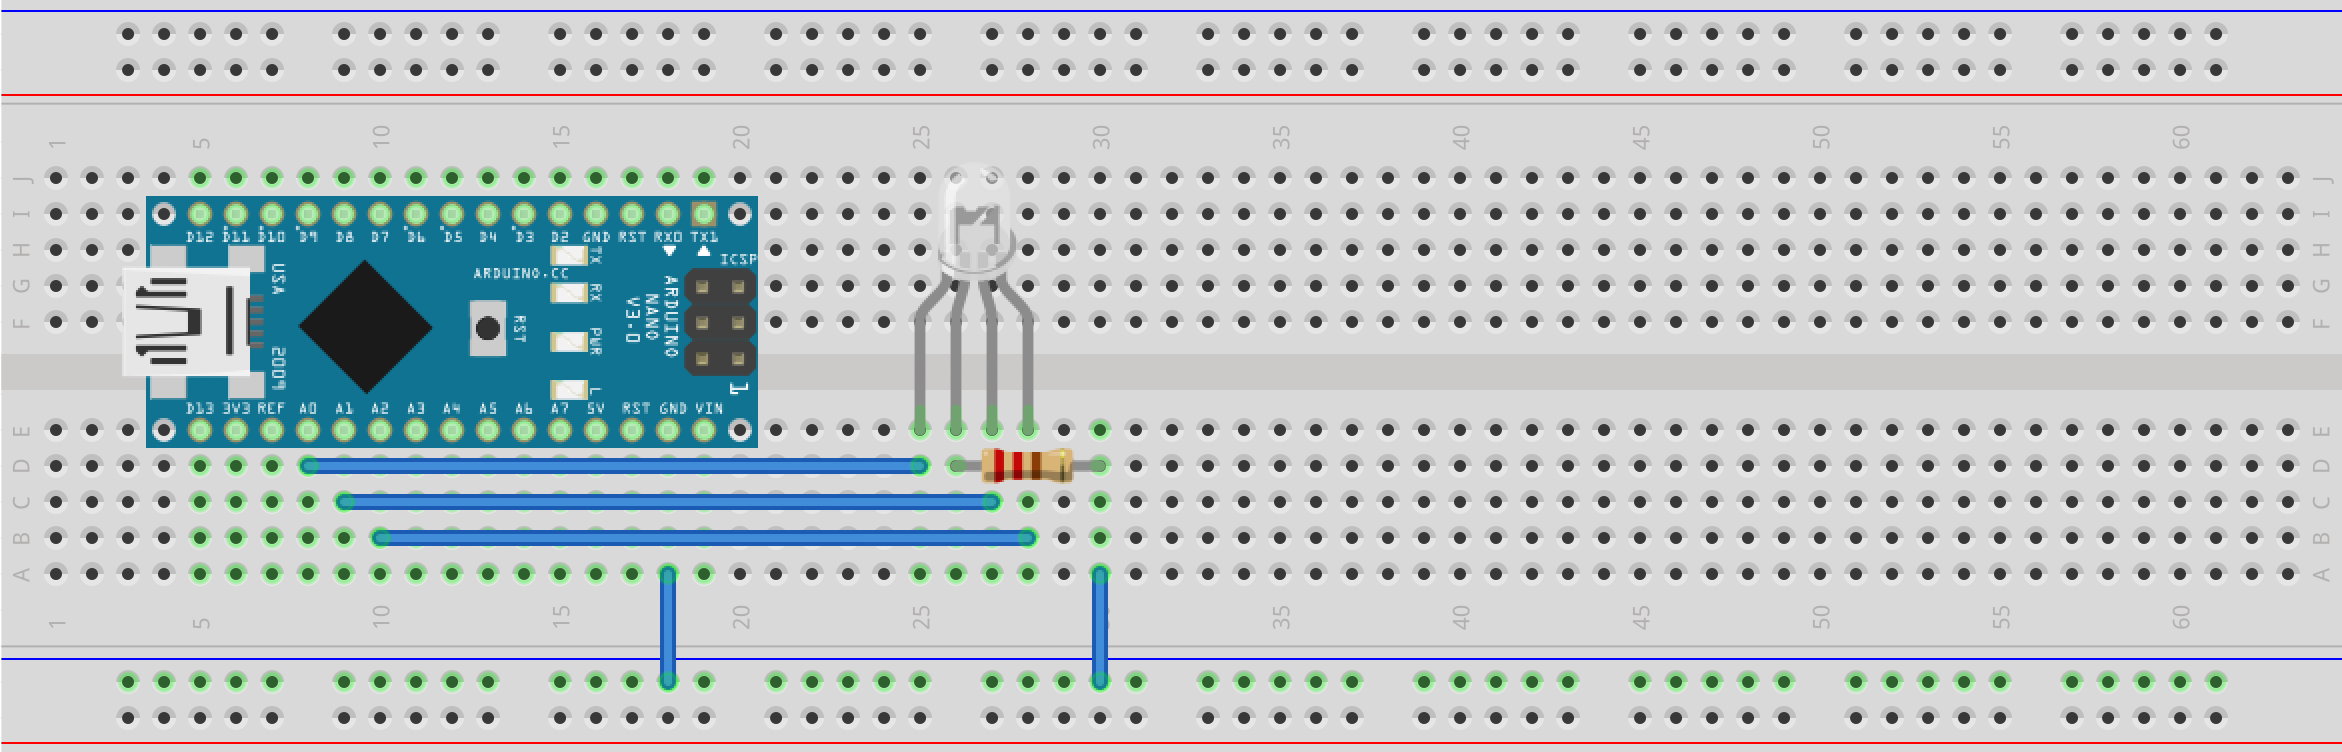
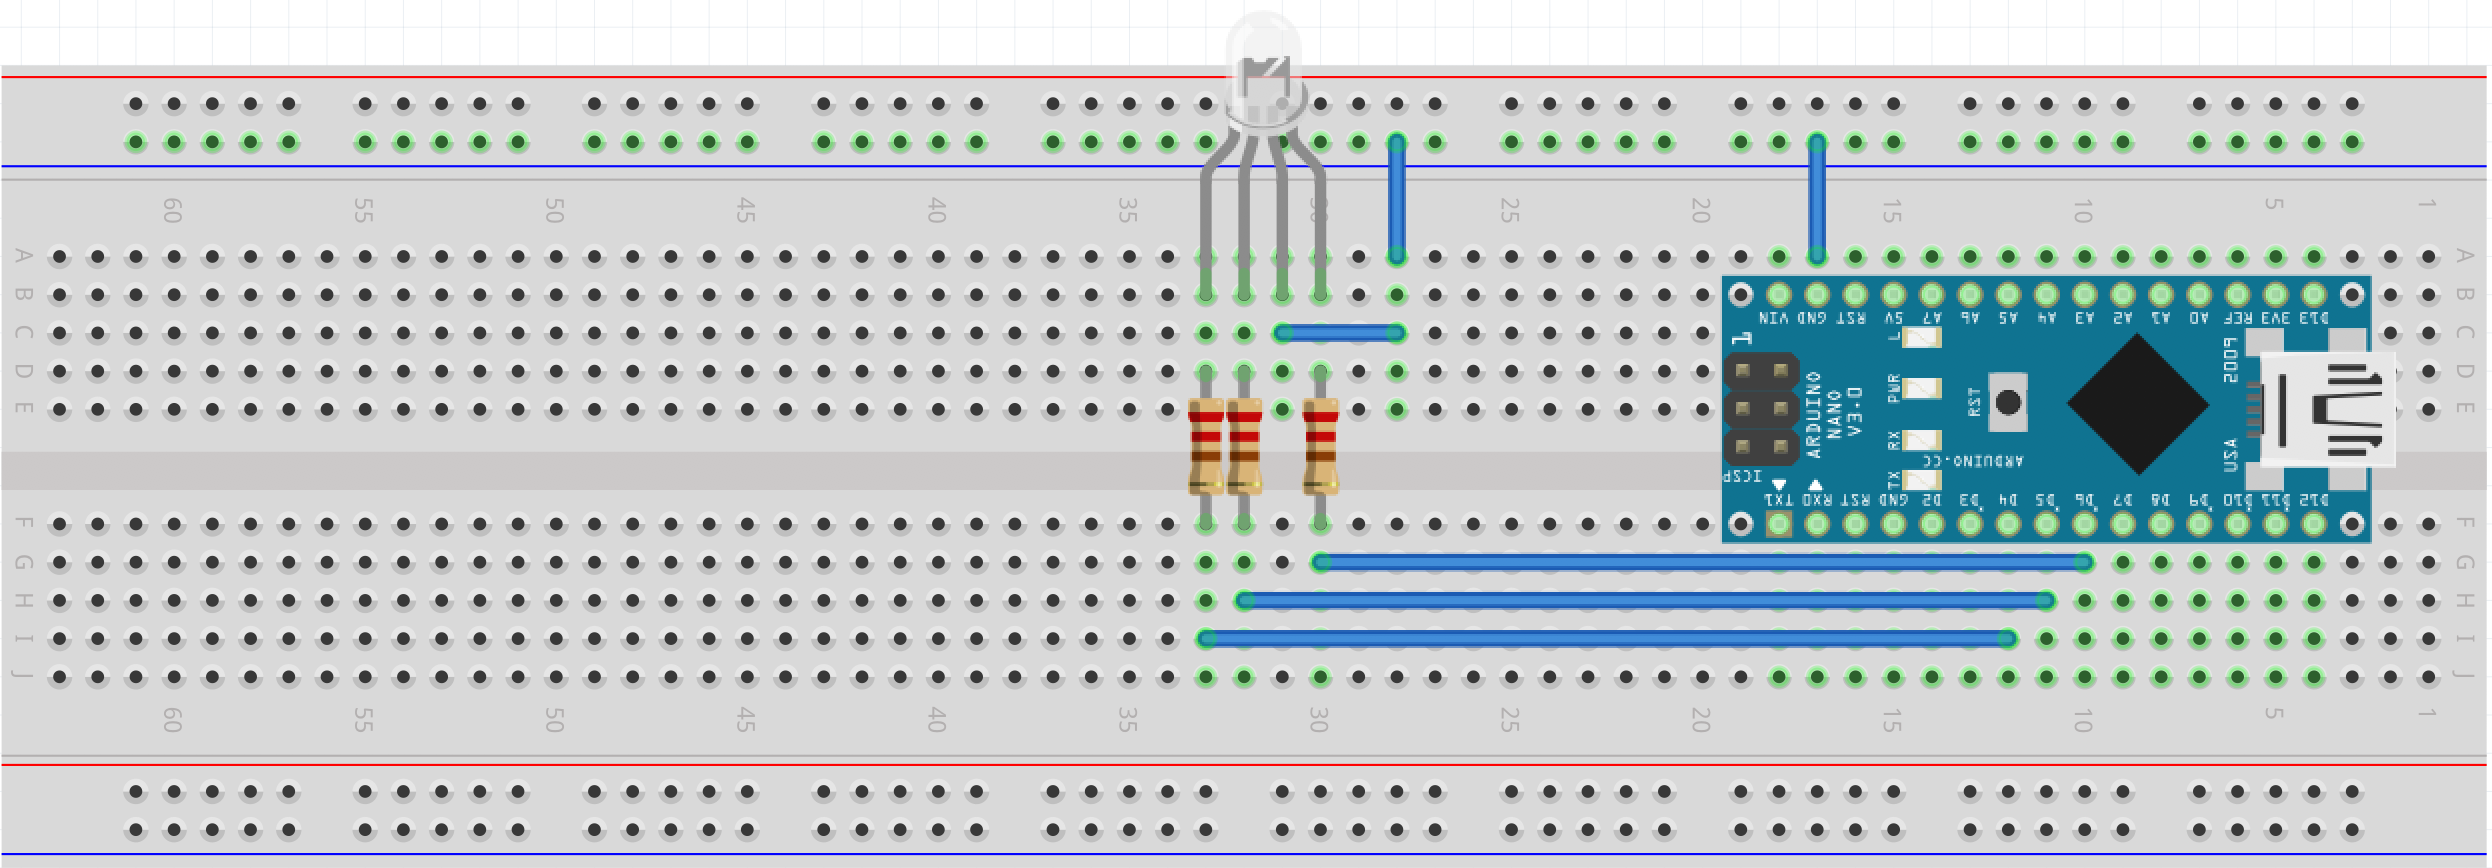
Updated connection diagram for RGB LED

diff --git a/3. Ultrasonic Range Sensing/README.md b/3. Ultrasonic Range Sensing/README.md
@@ -45,6 +45,8 @@ while True:
 ```
 
 ### Calibrating
+By using a ruler, you can manually determine how far the sound has traveled
+
 
 ### Writing to file
 You can use the `csv` library to write data to a file. This can be very useful for data analysis later.
